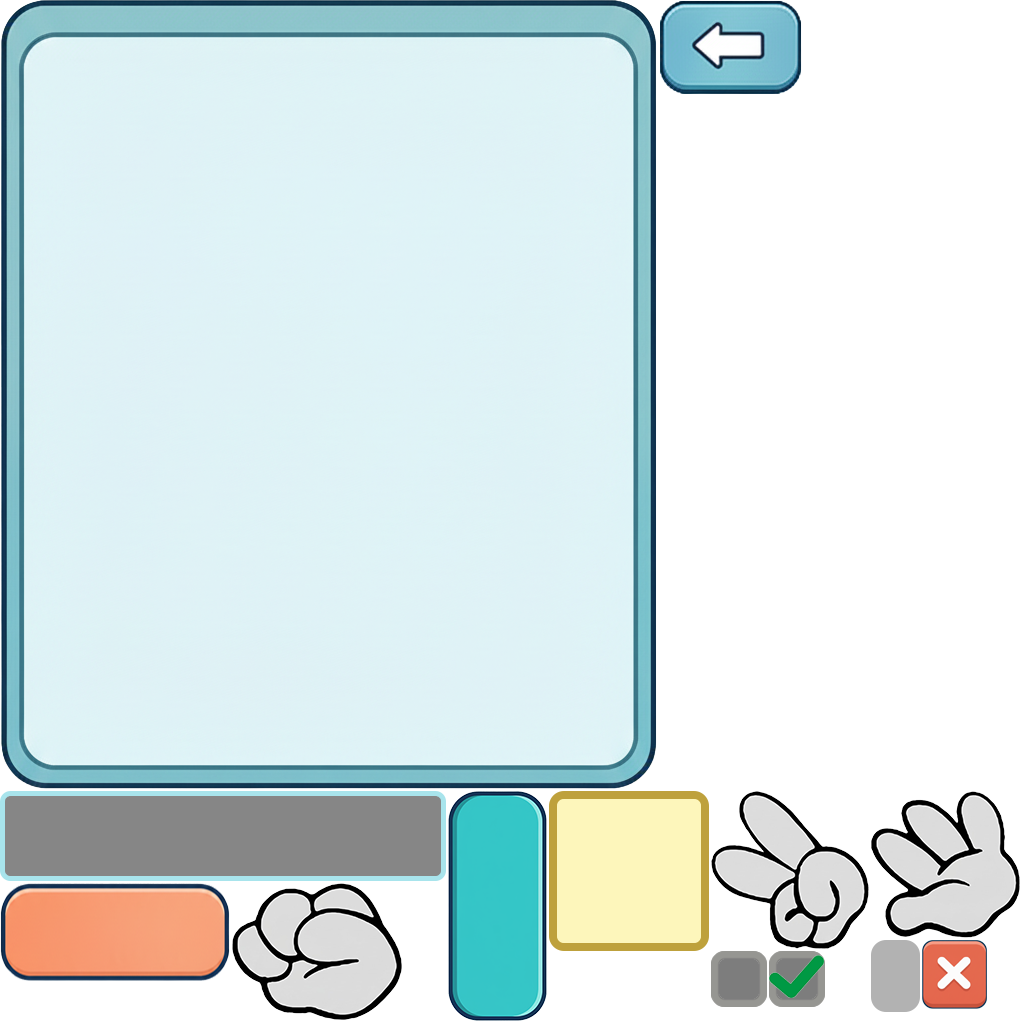
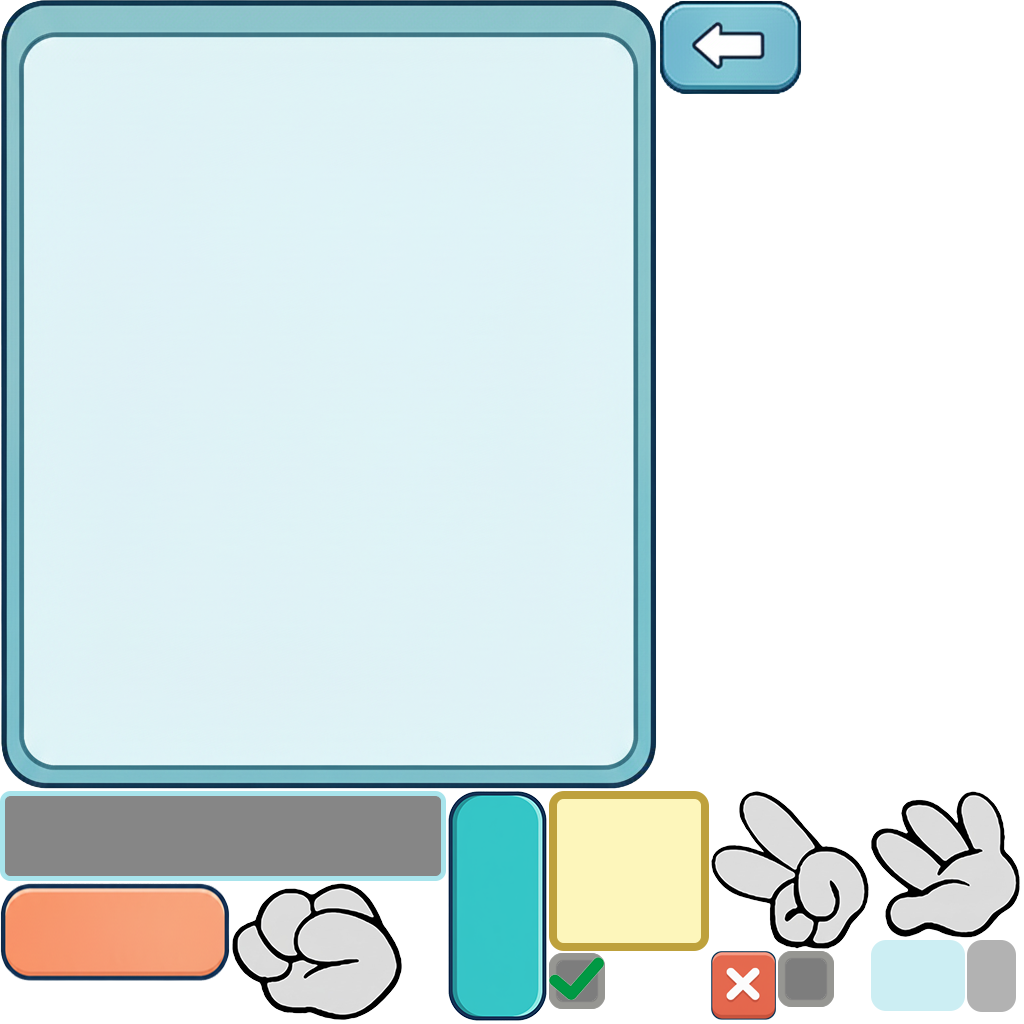
feat(mail): 新增邮件模块及相关UI组件
- 添加邮件界面FGUIMailView及其控制逻辑
- 新增邮件标题组件FGUICompMailTitle及其控制逻辑
- 配置邮件模块资源包及相关元数据
- 添加strip.png图片资源并在common包中注册
- 实现邮件视图控制器及列表展示
- 增加关闭按钮功能绑定与事件处理方法接口

Changed region(s): [[0.8438, 0.9062, 1.0, 1.0], [0.6875, 0.9062, 0.8125, 1.0], [0.5312, 0.9062, 0.5938, 1.0]]

diff --git a/assets/scripts/fgui/mail/FGUICompMailTitle.ts b/assets/scripts/fgui/mail/FGUICompMailTitle.ts
@@ -1,0 +1,58 @@
+/** This is an automatically generated class by FairyGUI. Please do not modify it. **/
+
+import { assetManager, AssetManager } from "cc";
+import * as fgui from "fairygui-cc";
+
+export default class FGUICompMailTitle extends fgui.GComponent {
+
+	public ctrl_read:fgui.Controller;
+	public UI_TXT_TITLE:fgui.GTextField;
+	public UI_TXT_TIME:fgui.GTextField;
+	public static URL:string = "ui://8lqwicsugd4t1";
+
+	public static packageName:string = "mail";
+
+	public static instance:any | null = null;
+
+	public static showView(params?:any, callBack?:(b:boolean)=>void):void {
+		if(FGUICompMailTitle.instance) {
+			console.log("allready show");
+			callBack&&callBack(false);
+			return;
+		}
+		const bundle = assetManager.getBundle("fgui") as AssetManager.Bundle;
+		fgui.UIPackage.loadPackage(bundle, this.packageName, (error, pkg)=> {
+
+			if(error){console.log("loadPackage error", error);callBack&&callBack(false);return;}
+			const view = fgui.UIPackage.createObject("mail", "CompMailTitle") as FGUICompMailTitle;
+
+			view.makeFullScreen();
+			FGUICompMailTitle.instance = view;
+			fgui.GRoot.inst.addChild(view);
+			view.show && view.show(params);
+			callBack&&callBack(true);
+		}
+		);
+	}
+
+	protected onDestroy():void {
+		super.onDestroy();
+		FGUICompMailTitle.instance = null;
+	}
+	public static hideView():void {
+		FGUICompMailTitle.instance && FGUICompMailTitle.instance.dispose();
+	}
+
+	show(data?:any):void{};
+
+	public static createInstance():FGUICompMailTitle {
+		return <FGUICompMailTitle>(fgui.UIPackage.createObject("mail", "CompMailTitle"));
+	}
+
+	protected onConstruct():void {
+		this.ctrl_read = this.getControllerAt(0);
+		this.UI_TXT_TITLE = <fgui.GTextField>(this.getChildAt(1));
+		this.UI_TXT_TIME = <fgui.GTextField>(this.getChildAt(3));
+	}
+}
+fgui.UIObjectFactory.setExtension(FGUICompMailTitle.URL, FGUICompMailTitle);

diff --git a/assets/scripts/fgui/mail/FGUIMailView.ts b/assets/scripts/fgui/mail/FGUIMailView.ts
@@ -1,0 +1,60 @@
+/** This is an automatically generated class by FairyGUI. Please do not modify it. **/
+
+import { assetManager, AssetManager } from "cc";
+import * as fgui from "fairygui-cc";
+
+export default class FGUIMailView extends fgui.GComponent {
+
+	public ctrl_have:fgui.Controller;
+	public UI_BTN_CLOSE:fgui.GButton;
+	public UI_LV_LIST:fgui.GList;
+	public static URL:string = "ui://8lqwicsugd4t0";
+
+	public static packageName:string = "mail";
+
+	public static instance:any | null = null;
+
+	public static showView(params?:any, callBack?:(b:boolean)=>void):void {
+		if(FGUIMailView.instance) {
+			console.log("allready show");
+			callBack&&callBack(false);
+			return;
+		}
+		const bundle = assetManager.getBundle("fgui") as AssetManager.Bundle;
+		fgui.UIPackage.loadPackage(bundle, this.packageName, (error, pkg)=> {
+
+			if(error){console.log("loadPackage error", error);callBack&&callBack(false);return;}
+			const view = fgui.UIPackage.createObject("mail", "MailView") as FGUIMailView;
+
+			view.makeFullScreen();
+			FGUIMailView.instance = view;
+			fgui.GRoot.inst.addChild(view);
+			view.show && view.show(params);
+			callBack&&callBack(true);
+		}
+		);
+	}
+
+	protected onDestroy():void {
+		super.onDestroy();
+		FGUIMailView.instance = null;
+	}
+	public static hideView():void {
+		FGUIMailView.instance && FGUIMailView.instance.dispose();
+	}
+
+	show(data?:any):void{};
+
+	public static createInstance():FGUIMailView {
+		return <FGUIMailView>(fgui.UIPackage.createObject("mail", "MailView"));
+	}
+
+	protected onConstruct():void {
+		this.ctrl_have = this.getControllerAt(0);
+		this.UI_BTN_CLOSE = <fgui.GButton>(this.getChildAt(4));
+		this.UI_BTN_CLOSE.onClick(this.onBtnClose, this);
+		this.UI_LV_LIST = <fgui.GList>(this.getChildAt(5));
+	}
+	onBtnClose():void{};
+}
+fgui.UIObjectFactory.setExtension(FGUIMailView.URL, FGUIMailView);
